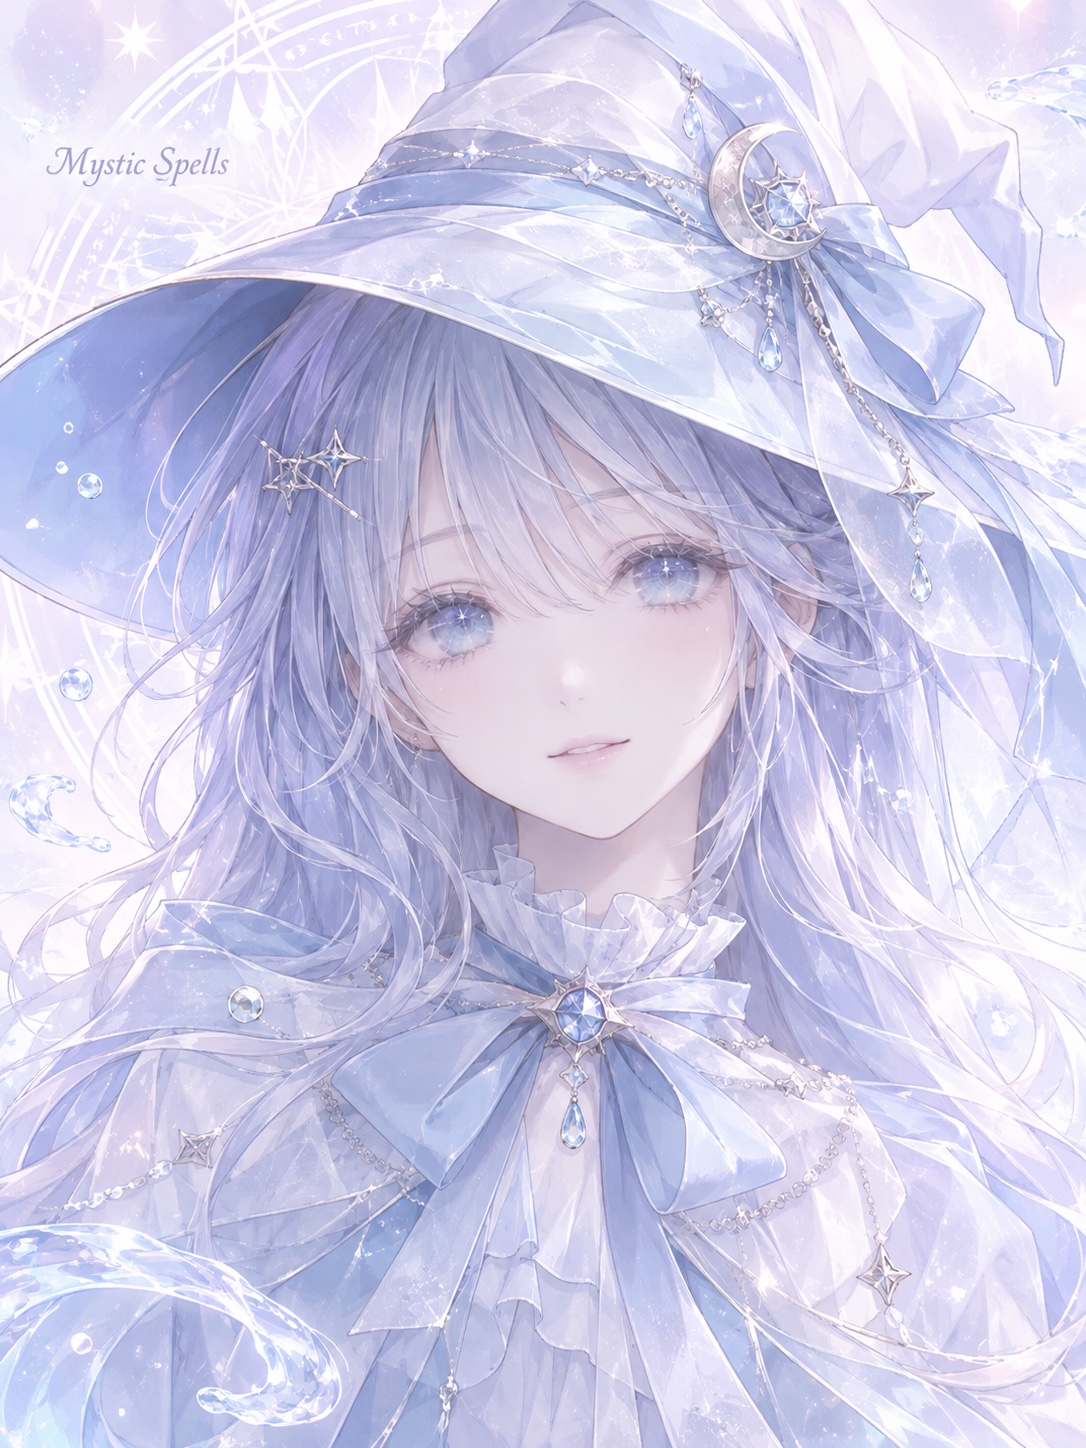
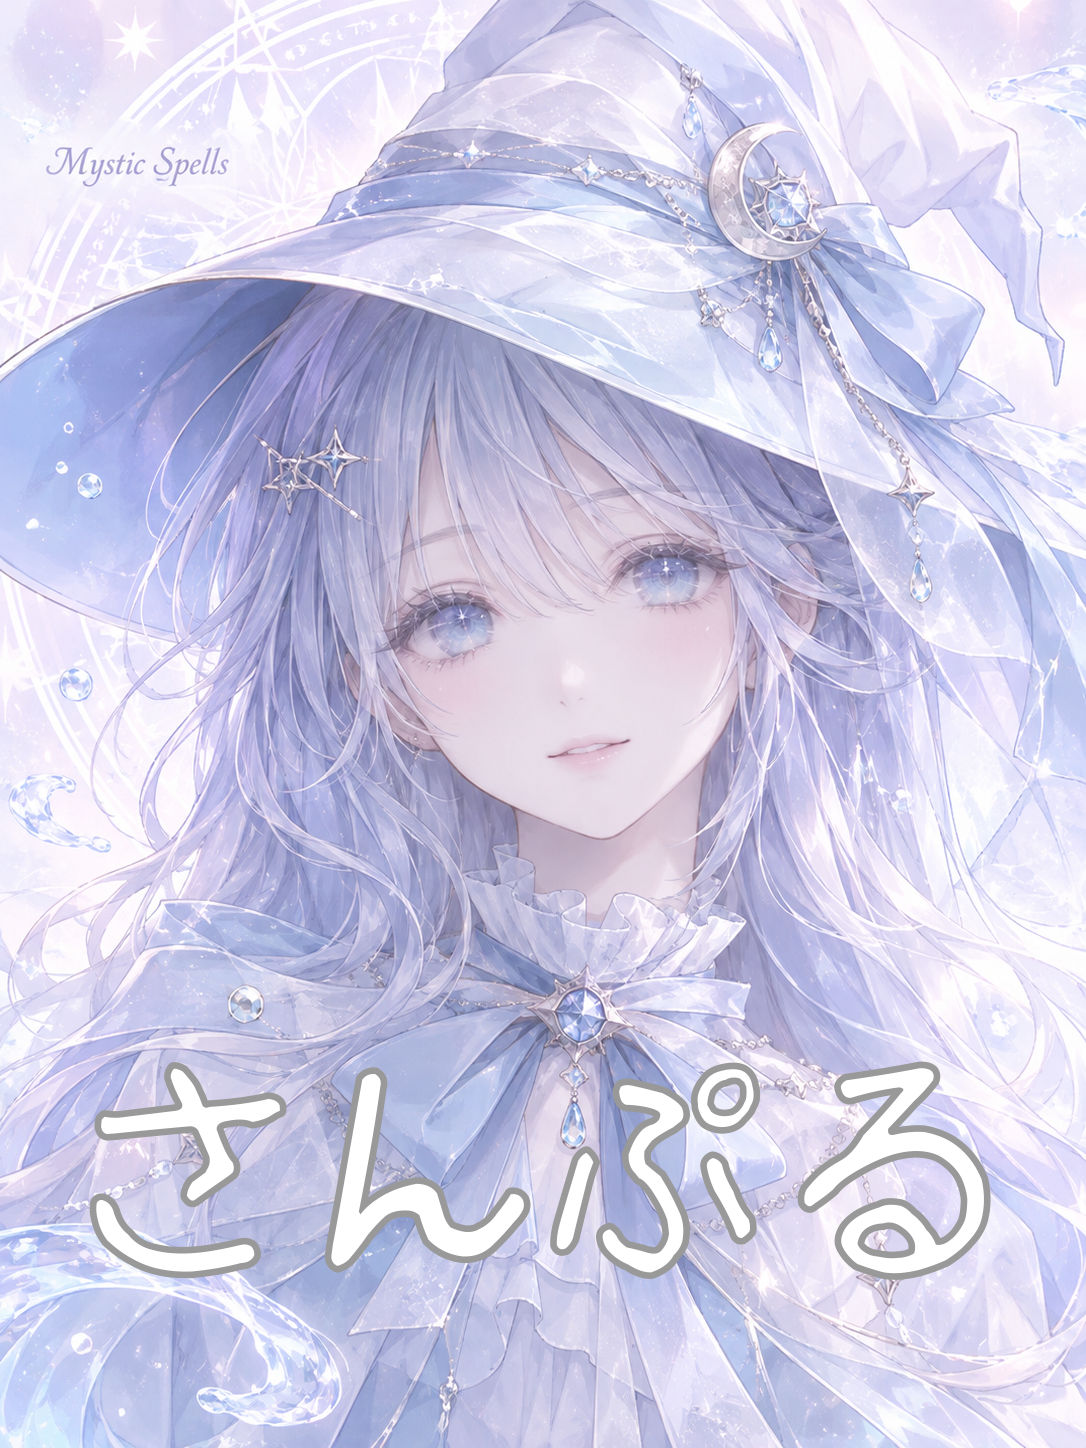
Add files via upload

Changed region(s): [[0.3039, 0.7148, 0.6989, 0.9012], [0.7293, 0.7148, 0.9116, 0.9012], [0.0608, 0.7148, 0.2735, 0.9012]]

diff --git a/app.js b/app.js
@@ -37,5 +37,38 @@ $('#retry').onclick=()=>{answers=[];index=0;appearance={};$('#appearance-form').
 function roundedRect(ctx,x,y,w,h,r){ctx.beginPath();ctx.roundRect(x,y,w,h,r)}
 $('#save-card').onclick=async()=>{const btn=$('#save-card');btn.disabled=true;try{const canvas=document.createElement('canvas');canvas.width=1200;canvas.height=1600;const c=canvas.getContext('2d');const g=c.createLinearGradient(0,0,1200,1600);g.addColorStop(0,'#fff');g.addColorStop(.55,'#f8f4fc');g.addColorStop(1,'#fff7fb');c.fillStyle=g;c.fillRect(0,0,1200,1600);c.strokeStyle='#c8bbd7';c.lineWidth=3;c.strokeRect(38,38,1124,1524);c.strokeRect(55,55,1090,1490);c.textAlign='center';const logo=new Image();logo.src='assets/logo.jpeg';await new Promise((resolve,reject)=>{logo.onload=resolve;logo.onerror=reject});c.drawImage(logo,420,35,360,360);c.fillStyle='#a296b7';c.font='38px Georgia';c.fillText('MAGICAL PROFILE',600,425);c.fillStyle=current.color;c.font='54px serif';c.fillText(current.short,600,535);c.fillStyle='#9589a9';c.font='28px Georgia';c.fillText(current.attribute,600,590);c.fillStyle='#706780';c.font='30px sans-serif';wrapText(c,current.personality,600,680,920,52);c.fillStyle='#bba8ce';c.font='38px serif';c.fillText('✧',600,880);let y=950;const sections=[['STRENGTH',current.strength],['INNER SELF',current.inner],['RECOMMENDED MAGIC',current.name]];for(const [label,txt] of sections){c.fillStyle='#a296b7';c.font='28px Georgia';c.fillText(label,600,y);y+=52;c.fillStyle='#706780';c.font='27px sans-serif';y=wrapText(c,txt,600,y,920,48)+34;}c.fillStyle='#a296b7';c.font='27px Georgia';c.fillText(diagnosisDate,600,1500);const a=document.createElement('a');a.download=`MysticSpells_${current.short.replaceAll(' ','_')}_${diagnosisDate.replaceAll('.','')}.png`;a.href=canvas.toDataURL('image/png');a.click();$('#save-status').textContent='画像を保存しました。';}catch(e){$('#save-status').textContent='保存できませんでした。ブラウザの設定をご確認ください。'}finally{btn.disabled=false}};
 function wrapText(ctx,text,x,y,maxWidth,lineHeight){const words=Array.from(text);let line='';for(const ch of words){const test=line+ch;if(ctx.measureText(test).width>maxWidth&&line){ctx.fillText(line,x,y);line=ch;y+=lineHeight}else line=test}if(line)ctx.fillText(line,x,y);return y+lineHeight}
-function buildPrompt(){return `オリジナルのファンタジー世界「Mystic Spells」に登場する、魔法使いの肖像画を描いてください。\n\n【キャラクター設定】\n・${appearance.silhouette}\n・${appearance.age}\n・${appearance.skin}\n・${appearance.hair}\n・髪型、髪色、瞳の色はキャラクターの雰囲気に合わせて自由にデザインする\n\n【魔法タイプ】\n${current.short}（${current.theme}）\n水、月光、星、透明感をモチーフにする。衣装は白・淡いアクアブルー・シルバーを基調とし、銀細工や小さな水晶を控えめに取り入れる。\n\n【絵柄】\nアニメとリアルの中間に位置する、繊細で美しいファンタジーイラスト。美しいアニメ調の瞳は大きくしすぎず、鼻筋・輪郭・骨格・顔の陰影には自然な立体感を持たせる。淡く優しいパステル調、柔らかな透明感のある光。\n\n【構図】\n縦長3:4。頭部から胸元までのバストアップ。顔は中央、正面またはわずかに斜め。手や腕は描かない。\n\n【背景】\n白を基調に、淡いピンクとラベンダーをわずかに含む柔らかなグラデーション。頭の後ろに薄く光る繊細な魔法陣、水の波紋と小さな光の粒子を控えめに配置。\n\n【文字】\n画像内に「Mystic Spells」という文字を必ず一箇所だけ配置する。それ以外の文字・数字・ロゴ・署名・透かしは一切入れない。\n\n装飾を過剰にせず、顔と衣装の美しさを優先してください。髪は自然な束感を大切にし、レースや刺繍、宝石は必要最小限にしてください。`;}
+function buildPrompt(){
+ const typeArt={
+  aqualis:{motif:'水、月光、星、透明感',palette:'白・淡いアクアブルー・シルバー',details:'水の流れや波紋を思わせる柔らかな意匠、透明な水晶や小さな雫の装飾'},
+  rubellis:{motif:'炎、情熱、薔薇、宝石',palette:'白・深みを抑えたルビーレッド・シルバー',details:'薔薇や赤い宝石、細いリボン、炎のゆらめきを思わせる意匠'},
+  amethyne:{motif:'アメジスト、魔法陣、星、神秘、知性',palette:'白・淡いアメジストパープル・シルバー',details:'アメジストの結晶、繊細な魔法陣、幾何学的で知的な装飾'}
+ };
+ const art=typeArt[current.key]||typeArt.aqualis;
+ return `オリジナルのファンタジー世界「Mystic Spells」に登場する、魔法使いの肖像画を描いてください。
+
+【キャラクター設定】
+・${appearance.silhouette}
+・${appearance.age}
+・${appearance.skin}
+・${appearance.hair}
+・髪型、髪色、瞳の色はキャラクターの雰囲気に合わせて自由にデザインする
+
+【魔法タイプ】
+${current.short}（${current.theme}）
+このタイプの象徴モチーフは「${art.motif}」。衣装は${art.palette}を基調とし、${art.details}を控えめに取り入れる。タイプ固有のモチーフと配色を明確に反映し、他のタイプの象徴モチーフを混ぜない。
+
+【絵柄】
+アニメとリアルの中間に位置する、繊細で美しいファンタジーイラスト。美しいアニメ調の瞳は大きくしすぎず、鼻筋・輪郭・骨格・顔の陰影には自然な立体感を持たせる。淡く優しいパステル調、柔らかな透明感のある光。
+
+【構図】
+縦長3:4。頭部から胸元までのバストアップ。顔は中央、正面またはわずかに斜め。手や腕は描かない。
+
+【背景】
+全タイプ共通で、白を基調に淡いピンクとラベンダーをわずかに含む柔らかなグラデーション。頭の後ろに薄く光る繊細な魔法陣を配置し、${art.motif}を連想させる小さな光や粒子を控えめに散らす。背景色は共通のまま、タイプの個性は衣装とモチーフで表現する。
+
+【文字】
+画像内に「Mystic Spells」という文字を必ず一箇所だけ配置する。それ以外の文字・数字・ロゴ・署名・透かしは一切入れない。
+
+装飾を過剰にせず、顔と衣装の美しさを優先してください。髪は自然な束感を大切にし、レースや刺繍、宝石は必要最小限にしてください。`;
+}
 $('#copy-prompt').onclick=async()=>{try{await navigator.clipboard.writeText(buildPrompt());$('#copy-status').textContent='コピーしました！ChatGPTに貼り付けてね。'}catch(e){const t=document.createElement('textarea');t.value=buildPrompt();document.body.append(t);t.select();document.execCommand('copy');t.remove();$('#copy-status').textContent='コピーしました！ChatGPTに貼り付けてね。'}};
